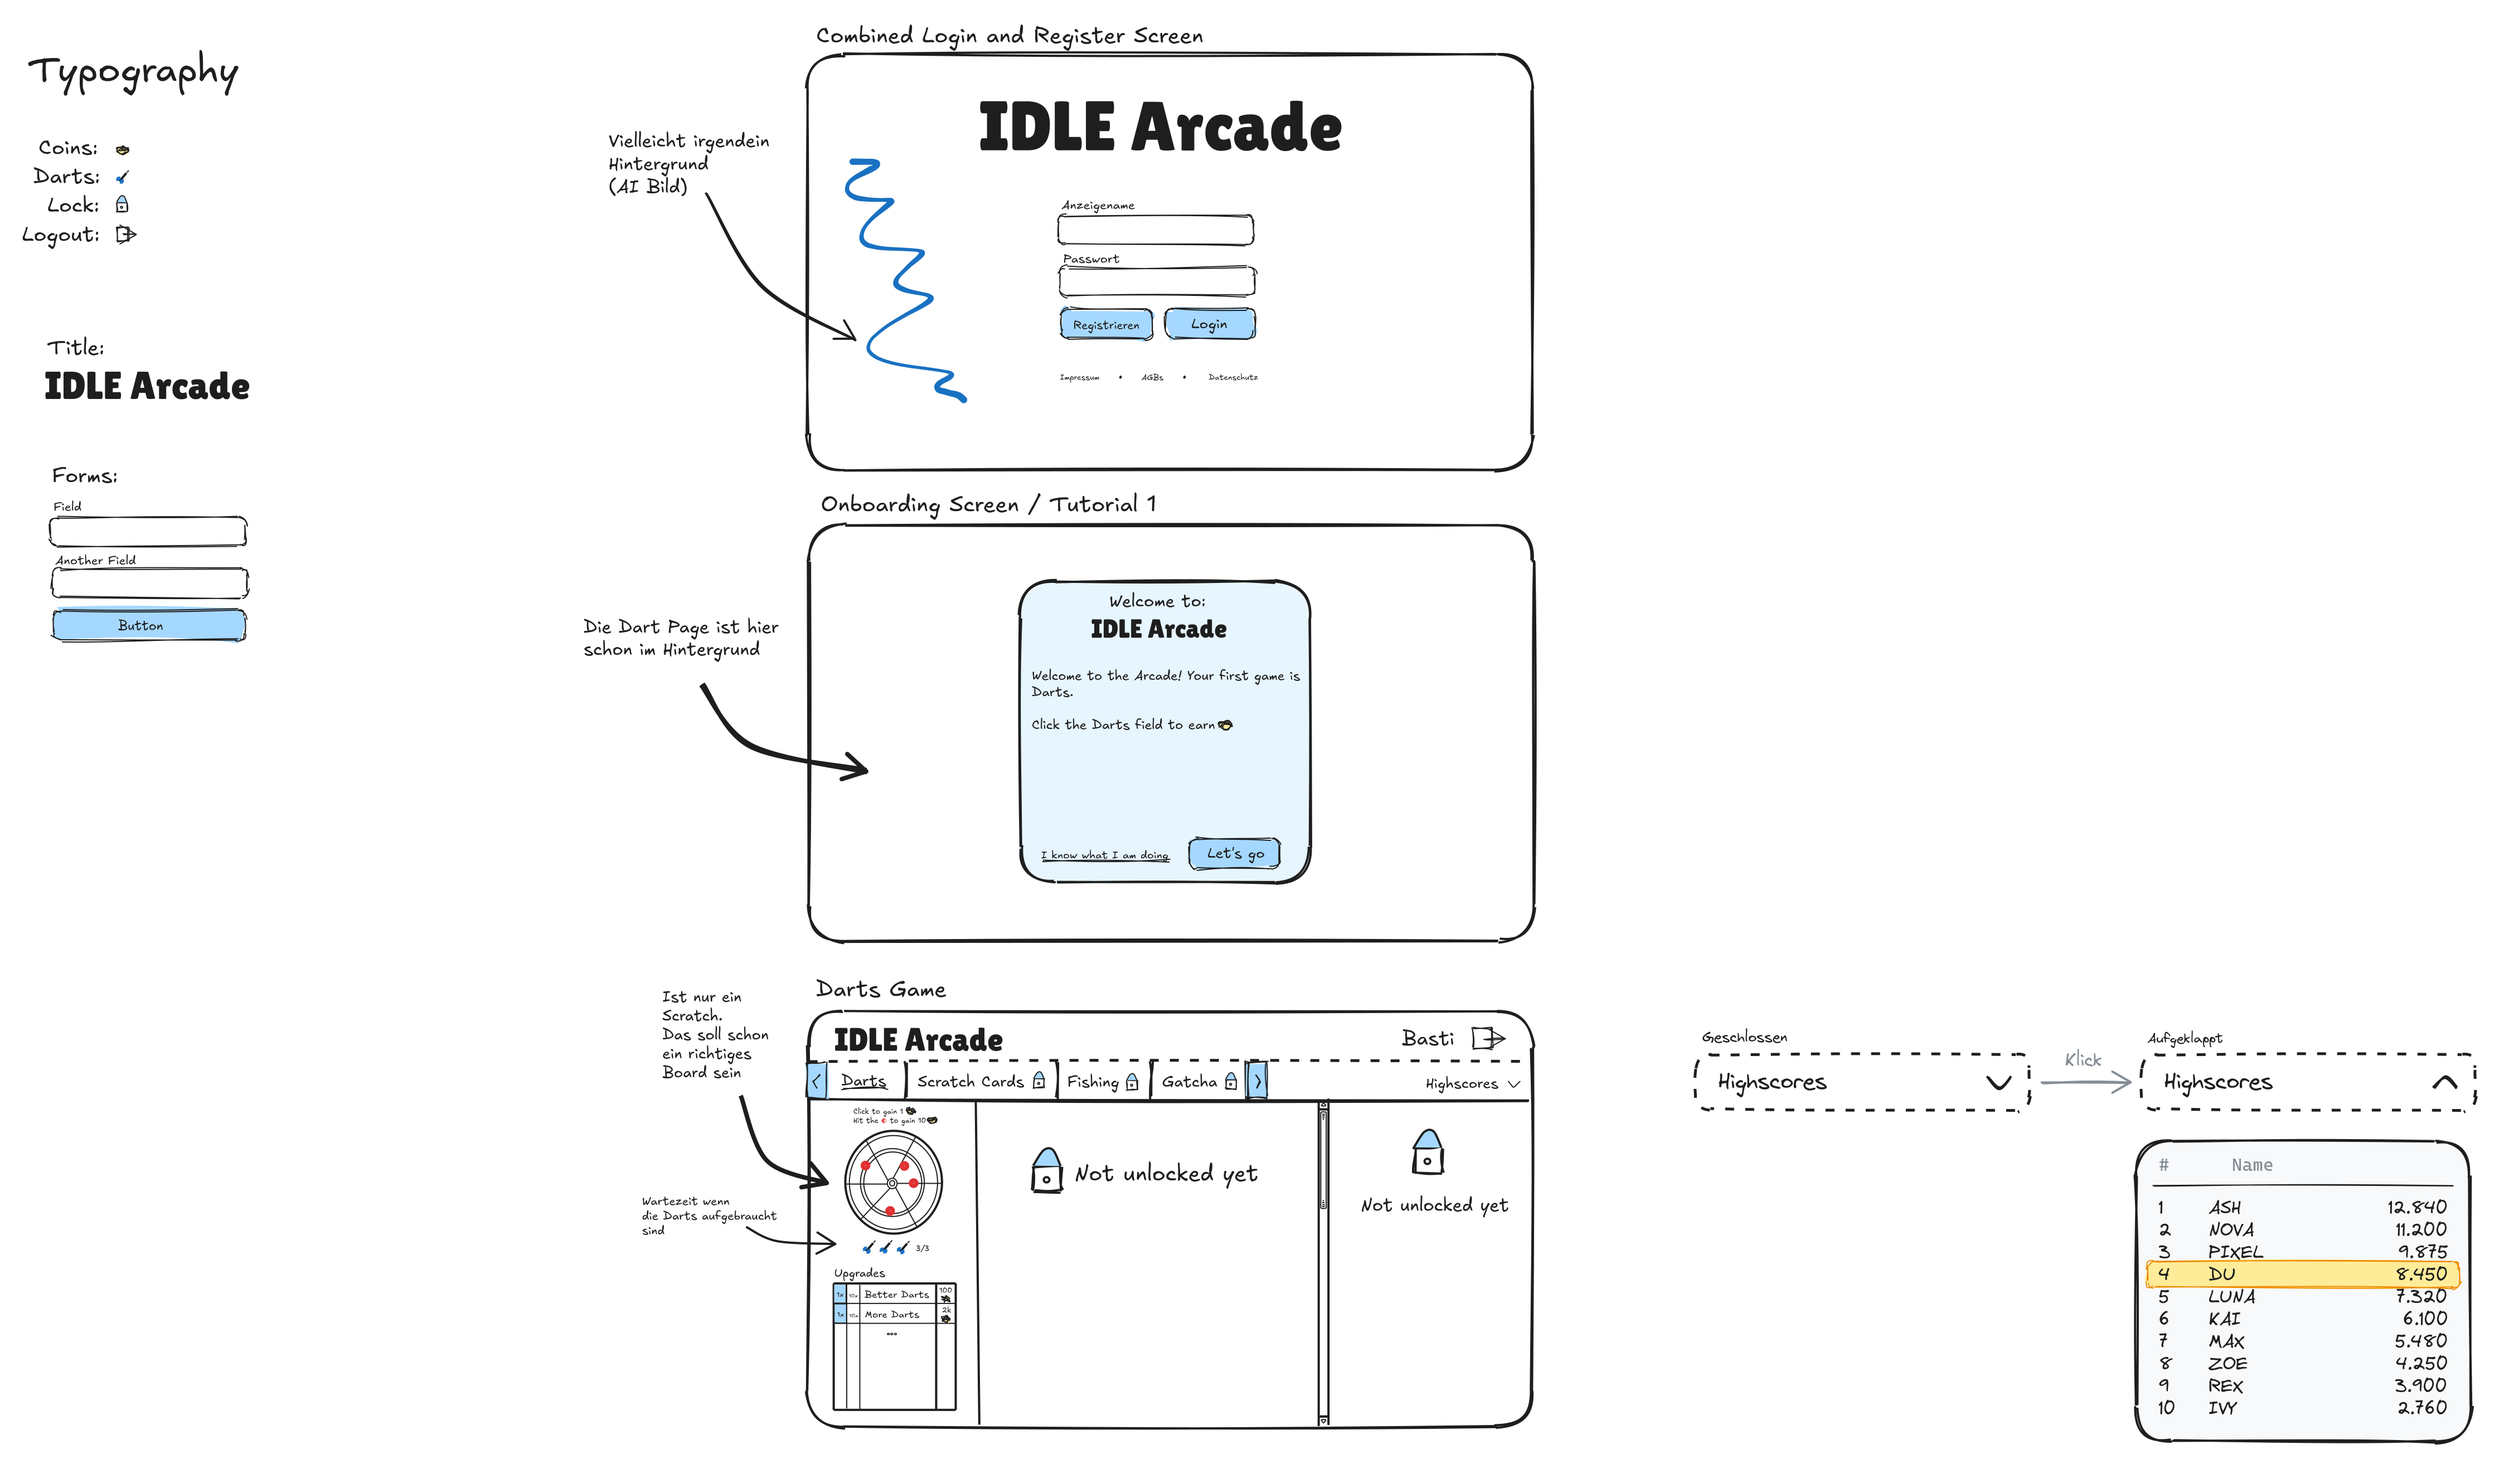
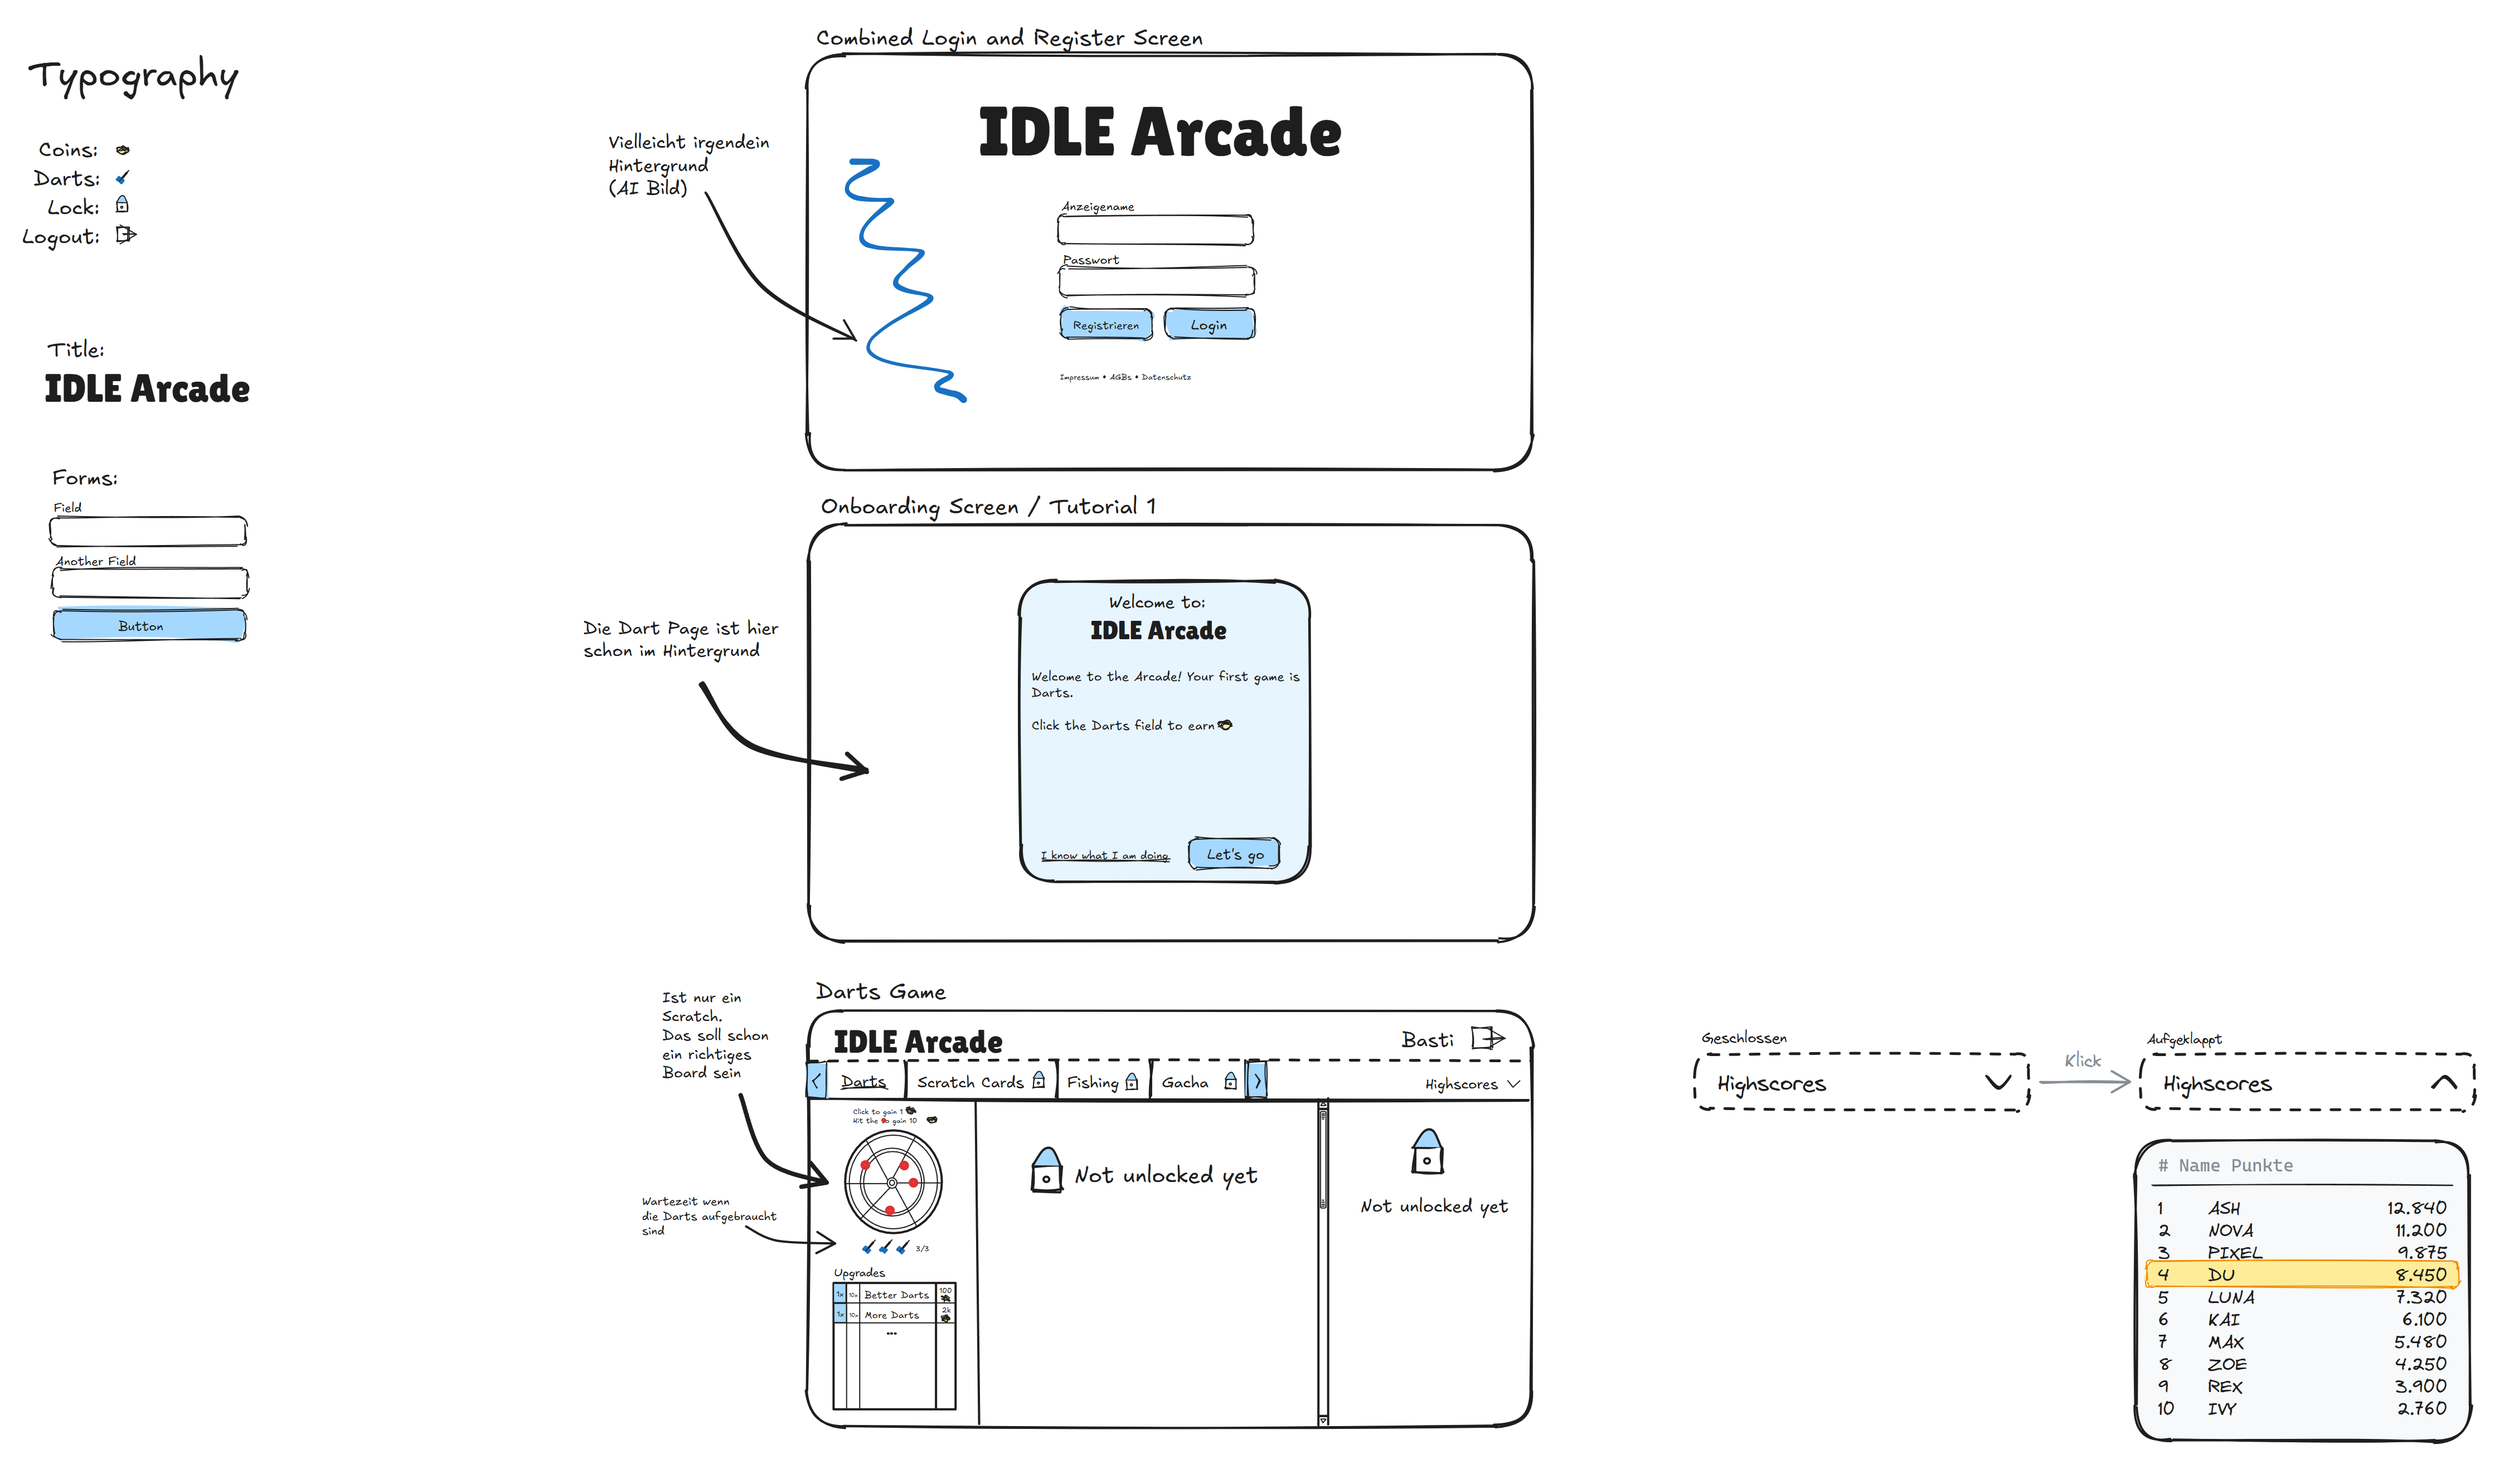
fix: rename Gatcha to Gacha consistently (#101)

diff --git a/frontend/src/features/shell/rooms.ts b/frontend/src/features/shell/rooms.ts
@@ -3,7 +3,7 @@ export const ROOMS = [
   { id: "darts", to: "/darts" },
   { id: "scratchCards" },
   { id: "fishing" },
-  { id: "gatcha" },
+  { id: "gacha" },
 ] as const satisfies readonly { id: string; to?: string }[];
 
 export type RoomId = (typeof ROOMS)[number]["id"];
